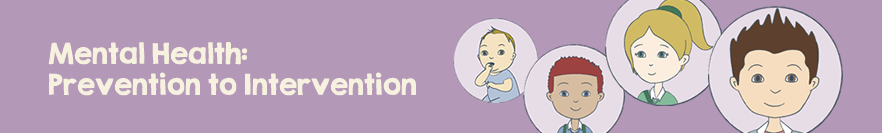
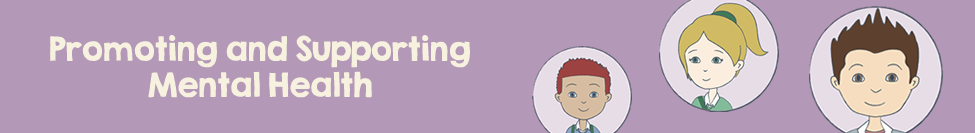
MHPL theme - Updated course header, and removed height on header as it was stretching the image.

diff --git a/theme/mhpl/style/mhpl.css b/theme/mhpl/style/mhpl.css
@@ -48,8 +48,8 @@ a {
     margin-left:auto;
     margin-right:auto;
     display:block;
-    height:133px;
-    /* can control image size here if need be */
+   /* height:133px; *?
+/* can control image size here if need be */
 }
 /*END CHANGE*/
 
